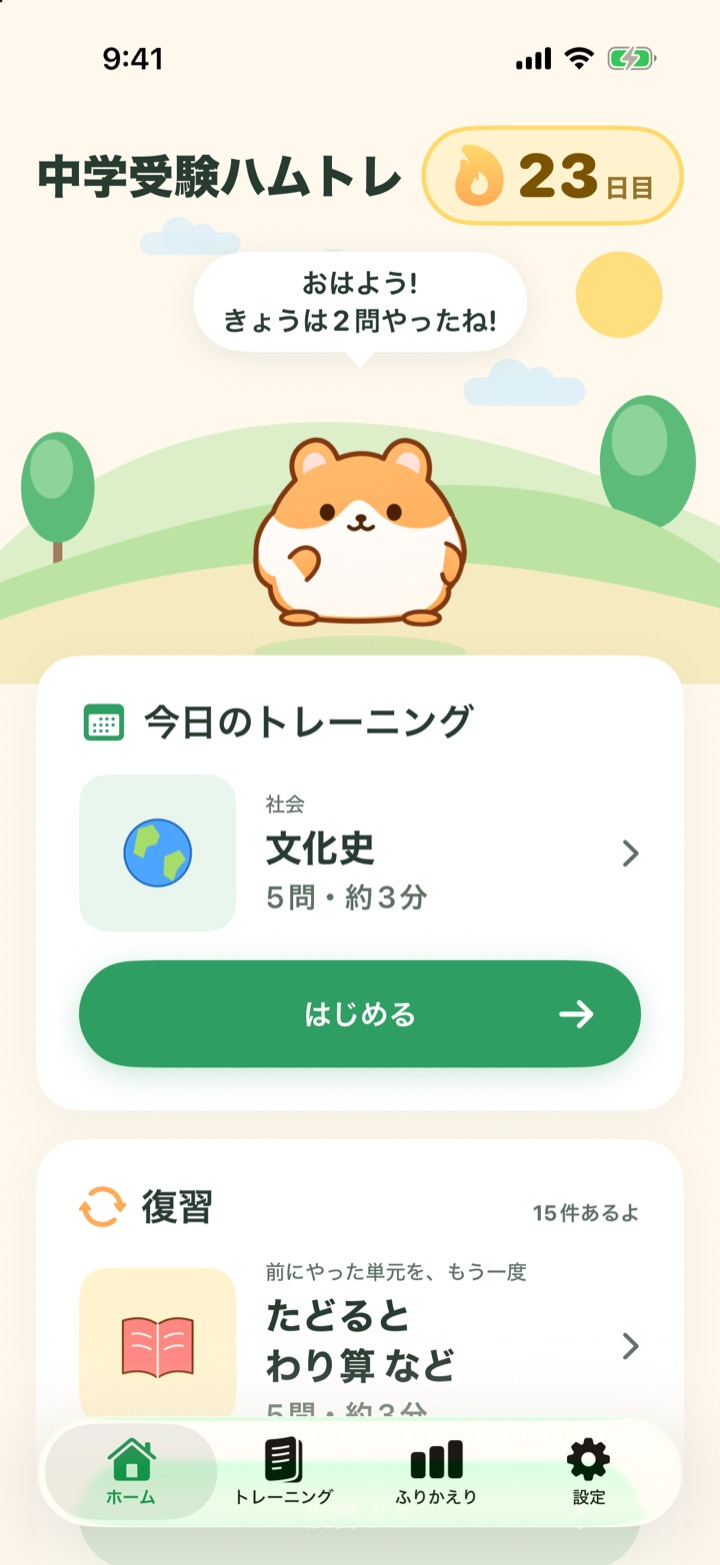
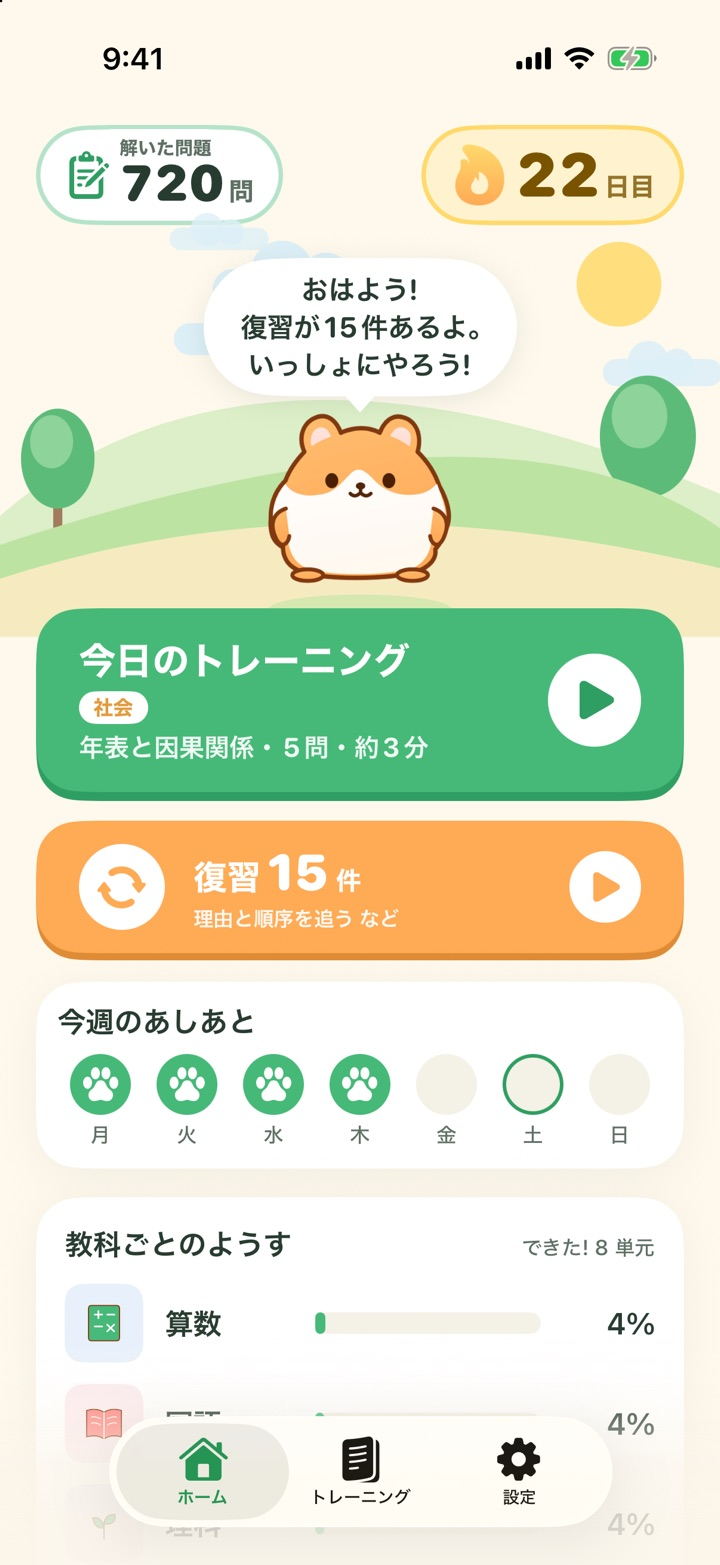
ハムトレ: 新しいホームとコレクションの画面に差しかえる
- アプリのホームが新しくなり、ふりかえりのタブがなくなったので、画面の画像を 1.1.165 のものにした(01・02・04・05)
- 8 枚目を、ふりかえりからホームのコレクションの画面にし、説明の文も合わせた

Claude-Session: https://claude.ai/code/session_01SjTVdJnAYLcLPLQ32zDKzt

diff --git a/hamutore/index.html b/hamutore/index.html
@@ -406,7 +406,7 @@
       <div class="shots">
         <div class="shot"><div class="phone"><img src="./assets/01-home.jpg" alt="ホーム画面。今日のトレーニングと復習" loading="lazy" width="720" height="1565"></div><h4>開いたら、今日の 5 問</h4><p>復習・苦手・新しい単元を組み合わせた「今日のトレーニング」。何をやるか迷わない。</p></div>
         <div class="shot"><div class="phone"><img src="./assets/03-feedback.jpg" alt="正解の画面。問題の線分図と式が見える" loading="lazy" width="720" height="1565"></div><h4>解いたら、考え方まで</h4><p>答えだけでなく、式と図をその場で見直せる。まちがえた問題は、にた問題で解き直し。</p></div>
-        <div class="shot"><div class="phone"><img src="./assets/08-records.jpg" alt="ふりかえり画面。取り組んだ日・解いた問題・身についた単元" loading="lazy" width="720" height="1565"></div><h4>がんばりが、見える</h4><p>取り組んだ日、解いた問題、身についた単元。親子で一緒にふりかえれます。</p></div>
+        <div class="shot"><div class="phone"><img src="./assets/08-collections.jpg" alt="ホームのコレクション。都道府県マップ・漢字 1026・歴史の年表などのカード" loading="lazy" width="720" height="1565"></div><h4>覚えた分だけ、うまる</h4><p>一問一答のカードを覚えるほど、都道府県マップや漢字・年表の表に色がつく。あと少しでそろう所が、ひと目でわかります。</p></div>
       </div>
     </div>
   </section>
